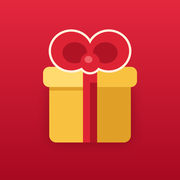
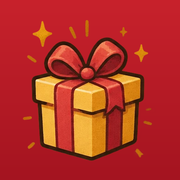
Habillage visuel personnalisé : icônes, illustrations, texture, guirlande et icône d'app (v0.06)
Assets générés par ChatGPT, découpés et convertis en WebP (≈ 290 Ko au total).

Claude-Session: https://claude.ai/code/session_01Qu7CnsYnytHFLLPUxnLugH

diff --git a/app.js b/app.js
@@ -8,7 +8,9 @@ const euro = (n) => (n == null ? '' : Number(n).toLocaleString('fr-FR', { style:
 const date = (d) => new Date(d).toLocaleDateString('fr-FR', { day: 'numeric', month: 'short', hour: '2-digit', minute: '2-digit' });
 const hue = (s) => [...s].reduce((h, c) => (h * 31 + c.charCodeAt(0)) % 360, 7);
 const appUrl = location.origin + location.pathname;
-const VERSION = 'v0.05';
+const VERSION = 'v0.06';
+const ico = (name) => `<img class="ico" src="assets/i-${name}.webp" alt="">`;
+const empty = (img, text) => `<div class="empty"><img src="assets/empty-${img}.webp" alt="">${text}</div>`;
 let D; // toutes les données visibles
 let filter = localStorage.getItem('giftmas-filter') || '';
 
@@ -24,11 +26,11 @@ async function start() {
   history.replaceState(null, '', location.pathname + location.hash);
   $('#app').innerHTML = `
     <header class="top">
-      <a href="#/" class="brand">🎁 Giftmas <small class="version">${VERSION}</small></a>
+      <a href="#/" class="brand"><img src="assets/hero-gift.webp" alt="">Giftmas <small class="version">${VERSION}</small></a>
       <nav>
-        <a href="#/journal" aria-label="Journal des cadeaux">📜</a>
-        <a href="#/notifs" aria-label="Notifications">🔔<b class="badge" hidden></b></a>
-        <a href="#/familles" aria-label="Familles et réglages">👪</a>
+        <a href="#/journal" aria-label="Journal des cadeaux">${ico('journal')}</a>
+        <a href="#/notifs" aria-label="Notifications">${ico('bell')}<b class="badge" hidden></b></a>
+        <a href="#/familles" aria-label="Familles et réglages">${ico('family')}</a>
       </nav>
     </header>
     ${DEMO ? '<p class="demo">Mode démo : données locales à ce navigateur</p>' : ''}
@@ -50,7 +52,7 @@ async function refresh() {
 function login(code = '', create = false) {
   $('#app').innerHTML = `
     <main class="login">
-      <div class="logo" aria-hidden="true">🎁</div>
+      <img class="logo" src="assets/hero-gift.webp" alt="">
       <h1>Giftmas <small class="version">${VERSION}</small></h1>
       <p>Les listes de cadeaux de la famille</p>
       <form id="login">
@@ -98,7 +100,7 @@ const inFilter = (profileId) => !filter || D.links.some((l) => l.profile_id === 
 const avatar = (p) => p.photo
   ? `<img class="avatar" src="${esc(p.photo)}" alt="">`
   : `<span class="avatar" style="--c:hsl(${hue(p.name)} 60% 50%)" aria-hidden="true">${esc(p.name.slice(0, 1).toUpperCase())}</span>`;
-const thumb = (g) => (g.image ? `<img src="${esc(g.image)}" alt="" loading="lazy">` : '<span class="ph" aria-hidden="true">🎁</span>');
+const thumb = (g) => (g.image ? `<img src="${esc(g.image)}" alt="" loading="lazy">` : '<img src="assets/gift-placeholder.webp" alt="">');
 
 const chips = () => D.families.length < 2 ? '' : `<div class="chips" role="group" aria-label="Filtrer par famille">
   ${[{ id: '', name: 'Tout le monde' }, ...D.families].map((f) =>
@@ -112,7 +114,7 @@ function home() {
     return `<a class="person" href="#/p/${p.id}">${avatar(p)}<b>${esc(p.name)}</b><small>${info}</small></a>`;
   });
   return `${chips()}<section class="people">${people.join('')}
-    <button type="button" class="person add" data-act="new-profile"><span class="avatar" aria-hidden="true">＋</span><b>Ajouter</b><small>une personne</small></button>
+    <button type="button" class="person add" data-act="new-profile"><span class="avatar" aria-hidden="true">${ico('plus')}</span><b>Ajouter</b><small>une personne</small></button>
   </section>`;
 }
 
@@ -131,16 +133,16 @@ function person(id) {
         ${mine ? '' : `<label class="check"><input type="checkbox" data-reserve="${g.id}" ${r ? 'checked' : ''} ${r && !byMe ? 'disabled' : ''}
           aria-label="${r ? `Réservé par ${esc(r.reserved_by)}` : `Je réserve ${esc(g.name)}`}"></label>`}</div>
       ${r ? `<span class="by">✓ ${byMe ? 'Moi' : esc(r.reserved_by)}</span>` : ''}
-      ${same(g.added_by, D.pseudo) || manage ? `<button type="button" class="del" data-act="del-gift" data-id="${g.id}" aria-label="Supprimer ${esc(g.name)}">×</button>` : ''}
+      ${same(g.added_by, D.pseudo) || manage ? `<button type="button" class="del" data-act="del-gift" data-id="${g.id}" aria-label="Supprimer ${esc(g.name)}">${ico('close')}</button>` : ''}
     </article>`;
   });
   return `<div class="phead">
-      <a class="icon-btn" href="#/" aria-label="Retour">‹</a>${avatar(p)}
+      <a class="icon-btn" href="#/" aria-label="Retour">${ico('back')}</a>${avatar(p)}
       <h1>${esc(p.name)}${mine ? '<small>Ta liste · les réservations te sont cachées 🤫</small>' : ''}</h1>
-      <button type="button" class="icon-btn add" data-act="new-gift" data-id="${p.id}" aria-label="Ajouter un cadeau">＋</button>
-      <button type="button" class="icon-btn" data-act="profile-menu" data-id="${p.id}" aria-label="Options du profil">⋯</button>
+      <button type="button" class="icon-btn" data-act="new-gift" data-id="${p.id}" aria-label="Ajouter un cadeau">${ico('plus')}</button>
+      <button type="button" class="icon-btn" data-act="profile-menu" data-id="${p.id}" aria-label="Options du profil">${ico('more')}</button>
     </div>
-    ${tiles.length ? `<section class="gifts">${tiles.join('')}</section>` : '<p class="empty">Aucune idée pour l’instant.<br>Ajoute le premier cadeau !</p>'}`;
+    ${tiles.length ? `<section class="gifts">${tiles.join('')}</section>` : empty('gifts', 'Aucune idée pour l’instant.<br>Ajoute le premier cadeau avec le ＋ !')}`;
 }
 
 function journal() {
@@ -152,26 +154,26 @@ function journal() {
     ${rows.length ? `<ul class="list">${rows.map(({ r, g, p }) => `<li>${thumb(g)}<div>
       <b>${esc(r.reserved_by)}</b> a réservé <b>${esc(g.name)}</b> pour <a href="#/p/${p.id}">${esc(p.name)}</a>
       <small>${date(r.created_at)}${g.price != null ? ` · ${euro(g.price)}` : ''}</small></div></li>`).join('')}</ul>`
-      : '<p class="empty">Rien de réservé pour l’instant.</p>'}`;
+      : empty('journal', 'Rien de réservé pour l’instant.')}`;
 }
 
 function notifs() {
   const standalone = matchMedia('(display-mode: standalone)').matches || navigator.standalone;
   const push = 'PushManager' in window && VAPID_PUBLIC_KEY && !DEMO
-    ? '<button type="button" class="btn green" data-act="enable-push">🔔 Recevoir les notifications sur cet appareil</button>'
+    ? `<button type="button" class="btn green" data-act="enable-push">${ico('bell')} Recevoir les notifications sur cet appareil</button>`
     : /iPhone|iPad/.test(navigator.userAgent) && !standalone
       ? '<p class="card">Pour recevoir les notifications sur iPhone : bouton Partager ⎋ puis « Sur l’écran d’accueil », et ouvre Giftmas depuis l’icône.</p>'
       : '';
   return `<h1 class="title">Notifications</h1>${push}
-    ${D.notifications.length ? `<ul class="list">${D.notifications.map((n) => `<li class="${n.read ? '' : 'unread'}"><span class="ph" aria-hidden="true">🎁</span>
+    ${D.notifications.length ? `<ul class="list">${D.notifications.map((n) => `<li class="${n.read ? '' : 'unread'}"><img src="assets/i-bell.webp" alt="">
       <div>${esc(n.body)}<small>${date(n.created_at)}</small></div></li>`).join('')}</ul>`
-      : '<p class="empty">Tu seras prévenu ici quand quelqu’un réserve un cadeau sur un profil que tu as créé.</p>'}`;
+      : empty('notifs', 'Tu seras prévenu ici quand quelqu’un réserve un cadeau sur un profil que tu as créé.')}`;
 }
 
 function families() {
   return `<h1 class="title">Familles</h1>
     ${D.families.map((f) => `<div class="card fam"><div><b>${esc(f.name)}</b><small>Code : <span class="code">${esc(f.code)}</span></small></div>
-      <button type="button" class="btn small" data-act="invite" data-id="${f.id}">Inviter</button></div>`).join('')}
+      <button type="button" class="btn small" data-act="invite" data-id="${f.id}">${ico('invite')} Inviter</button></div>`).join('')}
     <form class="card stack" data-form="join"><label>Rejoindre une autre famille<input name="code" required maxlength="6" autocapitalize="characters" autocomplete="off" placeholder="Code"></label><button class="btn">Rejoindre</button></form>
     <form class="card stack" data-form="create"><label>Créer une nouvelle famille<input name="name" required maxlength="60" placeholder="Famille Martin"></label><button class="btn ghost">Créer</button></form>
     <p class="card">Connecté en tant que <b>${esc(D.pseudo)}</b>. <button type="button" class="link" data-act="logout">Se déconnecter</button></p>`;
@@ -219,7 +221,7 @@ function imagePicker(form, name) {
   return (src) => { link.value = src; set(src); };
 }
 const imageField = (name, label) => `<div class="img-pick"><img alt="" hidden>
-  <label class="btn ghost small">📷 ${label}<input type="file" name="${name}-file" accept="image/*" hidden></label></div>
+  <label class="btn ghost small">${ico('camera')} ${label}<input type="file" name="${name}-file" accept="image/*" hidden></label></div>
   <input name="${name}-url" inputmode="url" autocomplete="off" aria-label="Adresse web de l’image" placeholder="ou colle l’adresse d’une image (https://…)">
   <input type="hidden" name="${name}">`;
 
@@ -289,7 +291,7 @@ function profileMenu(id) {
   const others = D.families.filter((f) => !D.links.some((l) => l.profile_id === id && l.family_id === f.id));
   sheet(`<h2>${esc(p.name)}</h2>
     ${others.map((f) => `<button type="button" class="btn ghost" data-act="add-to-family" data-id="${id}" data-fid="${f.id}">Ajouter aussi à ${esc(f.name)}</button>`).join('')}
-    <button type="button" class="btn ghost" data-act="share-list" data-id="${id}">Partager cette liste</button>
+    <button type="button" class="btn ghost" data-act="share-list" data-id="${id}">${ico('share')} Partager cette liste</button>
     ${same(p.created_by, D.pseudo) ? `<button type="button" class="btn danger" data-act="del-profile" data-id="${id}">Supprimer ce profil</button>` : ''}
     <button class="btn ghost" value="cancel">Fermer</button>`, () => {});
 }

diff --git a/style.css b/style.css
@@ -2,16 +2,19 @@
   --bg: #fbf5ec; --card: #fff; --ink: #2a1f1a; --muted: #7b6d63; --line: #eadfce;
   --accent: #c8102e; --green: #1d7a55; --gold: #e8b12f;
   --shadow: 0 2px 10px rgb(80 40 20 / .08);
+  --pattern: url(assets/pattern-light.webp); --veil: rgb(251 245 236 / .8);
   color-scheme: light dark;
 }
 @media (prefers-color-scheme: dark) {
   :root { --bg: #121419; --card: #1e222b; --ink: #f3ede4; --muted: #a59b90; --line: #2f3542;
-    --accent: #e0283f; --green: #2fae78; --gold: #f2c14e; --shadow: none; }
+    --accent: #e0283f; --green: #2fae78; --gold: #f2c14e; --shadow: none;
+    --pattern: url(assets/pattern-dark.webp); --veil: rgb(18 20 25 / .82); }
 }
 * { box-sizing: border-box; margin: 0; }
 body {
   font: 16px/1.35 system-ui, -apple-system, sans-serif; color: var(--ink); min-height: 100dvh;
-  background: var(--bg) radial-gradient(circle at 1px 1px, rgb(200 16 46 / .07) 1.2px, transparent 0) 0 0 / 22px 22px;
+  background: linear-gradient(var(--veil), var(--veil)), var(--pattern) 0 0 / 300px;
+  background-color: var(--bg);
   -webkit-tap-highlight-color: transparent;
 }
 h1, h2, .brand, .btn { font-family: Fredoka, system-ui, sans-serif; font-weight: 600; }
@@ -25,17 +28,24 @@ a { color: inherit; }
   padding: calc(env(safe-area-inset-top) + 4px) 10px 4px 14px; background: var(--accent); color: #fff;
   box-shadow: 0 2px 12px rgb(0 0 0 / .15);
 }
-.brand { color: #fff; text-decoration: none; font-size: 22px; }
+.brand { display: flex; align-items: center; gap: 6px; color: #fff; text-decoration: none; font-size: 22px; }
+.brand img { width: 34px; height: 34px; object-fit: contain; }
+/* guirlande sous la barre rouge (décor, ne capte pas les touchers) */
+.top::after { content: ""; position: absolute; left: 0; right: 0; top: 100%; height: 26px; background: url(assets/garland.webp) 0 0 / auto 26px repeat-x; pointer-events: none; }
+.ico { width: 30px; height: 30px; object-fit: contain; flex: none; }
 .version { font: 500 12px system-ui, sans-serif; opacity: .75; }
 .top nav { display: flex; gap: 2px; }
-.top nav a { position: relative; display: grid; place-items: center; width: 44px; height: 44px; font-size: 21px; text-decoration: none; border-radius: 12px; }
+.top nav a { position: relative; display: grid; place-items: center; width: 44px; height: 44px; text-decoration: none; border-radius: 12px; }
+.top nav .ico { width: 32px; height: 32px; }
 .top nav a[aria-current] { background: rgb(255 255 255 / .22); }
 .badge {
   position: absolute; top: 3px; right: 1px; min-width: 18px; height: 18px; padding: 0 4px; border-radius: 9px;
   background: var(--gold); color: #2a1f1a; font: 700 11px/18px system-ui; text-align: center;
 }
+.top + .demo { margin-top: 26px; }
+.top + .demo + main { padding-top: 12px; }
 .demo { background: var(--gold); color: #2a1f1a; font-size: 13px; text-align: center; padding: 4px; }
-main { padding: 12px 12px calc(24px + env(safe-area-inset-bottom)); max-width: 900px; margin: auto; }
+main { padding: 30px 12px calc(24px + env(safe-area-inset-bottom)); max-width: 900px; margin: auto; }
 .title { font-size: 24px; margin: 4px 0 12px; }
 
 /* Filtre familles */
@@ -57,7 +67,8 @@ main { padding: 12px 12px calc(24px + env(safe-area-inset-bottom)); max-width: 9
   width: 68px; height: 68px; border-radius: 50%; display: grid; place-items: center; flex: none; object-fit: cover;
   background: var(--c, var(--accent)); color: #fff; font: 600 28px Fredoka, system-ui; box-shadow: 0 0 0 3px var(--card), 0 0 0 5px var(--gold);
 }
-.person.add .avatar { background: none; color: var(--muted); box-shadow: none; border: 2px dashed var(--muted); }
+.person.add .avatar { background: none; box-shadow: none; border: 2px dashed var(--muted); }
+.person.add .ico { width: 44px; height: 44px; }
 
 /* Page personne */
 .phead { display: flex; align-items: center; gap: 10px; margin-bottom: 12px; }
@@ -66,38 +77,39 @@ main { padding: 12px 12px calc(24px + env(safe-area-inset-bottom)); max-width: 9
 .phead small { display: block; font: 12px system-ui; color: var(--muted); }
 .icon-btn {
   flex: none; display: grid; place-items: center; width: 44px; height: 44px; border: 0; border-radius: 12px;
-  background: var(--card); color: var(--ink); font-size: 22px; text-decoration: none; box-shadow: var(--shadow);
+  background: none; color: var(--ink); text-decoration: none;
 }
 
 /* Grille de cadeaux : 3 colonnes sur iPhone, 9 visibles sans défiler */
 .gifts { display: grid; grid-template-columns: repeat(auto-fill, minmax(104px, 1fr)); gap: 8px; }
 .gift { position: relative; display: flex; flex-direction: column; background: var(--card); border-radius: 14px; overflow: hidden; box-shadow: var(--shadow); transition: transform .15s; }
 .gift-link { flex: 1; display: flex; flex-direction: column; text-decoration: none; }
-.gift img, .gift .ph { width: 100%; aspect-ratio: 4 / 3; object-fit: cover; display: grid; place-items: center; background: var(--line); font-size: 30px; }
+.gift-link img { width: 100%; aspect-ratio: 3 / 2; object-fit: cover; display: grid; place-items: center; background: var(--line); font-size: 30px; }
 .gift-name { padding: 5px 7px 0; font-size: 12.5px; line-height: 1.25; font-weight: 600; min-height: calc(2.5em + 5px);
   display: -webkit-box; -webkit-line-clamp: 2; -webkit-box-orient: vertical; overflow: hidden; }
 .gift-foot { display: flex; align-items: center; justify-content: space-between; min-height: 40px; padding-left: 7px; }
 .price { font-weight: 700; font-size: 13px; color: var(--green); }
 .check { display: grid; place-items: center; width: 44px; height: 40px; cursor: pointer; }
 .check input { appearance: none; display: grid; place-items: center; width: 26px; height: 26px; margin: 0; border: 2px solid var(--muted); border-radius: 8px; background: var(--card); }
-.check input:checked { background: var(--green); border-color: var(--green); }
-.check input:checked::after { content: "✓"; color: #fff; font-weight: 800; font-size: 17px; }
-.check input:checked:disabled { background: var(--gold); border-color: var(--gold); }
+.check input:checked { border: 0; background: url(assets/i-check.webp) center / 30px no-repeat; }
+.check input:checked:disabled { filter: saturate(.35); }
 .gift.taken img, .gift.taken .ph { filter: grayscale(.7) opacity(.5); }
 .by {
   position: absolute; top: 6px; left: 6px; max-width: calc(100% - 40px); padding: 3px 7px; border-radius: 8px;
   background: var(--green); color: #fff; font-size: 11px; font-weight: 700; white-space: nowrap; overflow: hidden; text-overflow: ellipsis;
 }
-.del { position: absolute; top: 4px; right: 4px; width: 26px; height: 26px; border: 0; border-radius: 50%; background: rgb(0 0 0 / .3); color: #fff; font-size: 15px; line-height: 1; }
-.icon-btn.add { background: var(--accent); color: #fff; font-weight: 700; }
+.del { position: absolute; top: 3px; right: 3px; display: grid; place-items: center; width: 32px; height: 32px; padding: 0; border: 0; background: none; }
+.del .ico { width: 22px; height: 22px; opacity: .85; }
+.icon-btn .ico { width: 40px; height: 40px; }
 
 /* Listes : journal, notifications */
 .list { list-style: none; padding: 0; display: grid; gap: 8px; }
 .list li { display: flex; gap: 10px; align-items: center; padding: 10px; background: var(--card); border-radius: 14px; box-shadow: var(--shadow); font-size: 15px; }
 .list li.unread { box-shadow: inset 4px 0 var(--accent), var(--shadow); }
-.list img, .list .ph { flex: none; width: 48px; height: 48px; border-radius: 10px; object-fit: cover; display: grid; place-items: center; background: var(--line); font-size: 22px; }
+.list li > img { flex: none; width: 48px; height: 48px; border-radius: 10px; object-fit: cover; display: grid; place-items: center; background: var(--line); font-size: 22px; }
 .list small { display: block; color: var(--muted); font-size: 13px; }
-.empty { text-align: center; color: var(--muted); padding: 48px 12px; }
+.empty { text-align: center; color: var(--muted); padding: 24px 12px; }
+.empty img { display: block; width: 180px; max-width: 60%; margin: 0 auto 12px; }
 .card { background: var(--card); border-radius: 16px; padding: 14px; box-shadow: var(--shadow); margin-bottom: 12px; }
 .fam { display: flex; align-items: center; justify-content: space-between; gap: 12px; }
 .fam small { display: block; color: var(--muted); }
@@ -113,7 +125,9 @@ legend { font-size: 14px; font-weight: 600; margin-bottom: 6px; }
 .tick input { width: 22px; height: 22px; accent-color: var(--green); }
 .btn { display: block; width: 100%; padding: 14px; border: 0; border-radius: 14px; background: var(--accent); color: #fff; font-size: 17px; text-align: center; cursor: pointer; }
 .btn:disabled { opacity: .6; }
-.btn.small { width: auto; padding: 10px 16px; font-size: 15px; }
+.btn.small { width: auto; padding: 8px 14px; font-size: 15px; }
+.btn { display: flex; align-items: center; justify-content: center; gap: 8px; }
+.btn .ico { width: 26px; height: 26px; }
 .btn.ghost { background: transparent; color: var(--ink); border: 1px solid var(--line); }
 .btn.danger { background: transparent; color: var(--accent); border: 1px solid var(--accent); }
 .btn.green { background: var(--green); margin-bottom: 12px; }
@@ -141,6 +155,6 @@ dialog::backdrop { background: rgb(0 0 0 / .45); }
 .login h1 { font-size: 44px; color: var(--accent); }
 .login p { color: var(--muted); }
 .login .demo { border-radius: 10px; }
-.logo { font-size: 76px; animation: wiggle 2.5s ease-in-out infinite; }
+.logo { width: 150px; margin: auto; animation: wiggle 2.5s ease-in-out infinite; }
 @keyframes wiggle { 0%, 80%, 100% { transform: rotate(0); } 85% { transform: rotate(-12deg); } 90% { transform: rotate(10deg); } 95% { transform: rotate(-6deg); } }
 @media (prefers-reduced-motion: reduce) { * { animation: none !important; transition: none !important; } }

diff --git a/index.html b/index.html
@@ -8,8 +8,8 @@
   <meta name="apple-mobile-web-app-status-bar-style" content="black-translucent">
   <meta name="apple-mobile-web-app-title" content="Giftmas">
   <link rel="manifest" href="manifest.webmanifest">
-  <link rel="icon" href="icons/icon-192.png?v=2">
-  <link rel="apple-touch-icon" href="icons/apple-touch-icon.png?v=2">
+  <link rel="icon" href="icons/icon-192.png?v=3">
+  <link rel="apple-touch-icon" href="icons/apple-touch-icon.png?v=3">
   <link rel="preconnect" href="https://fonts.gstatic.com" crossorigin>
   <link rel="stylesheet" href="https://fonts.googleapis.com/css2?family=Fredoka:wght@500;600&display=swap">
   <link rel="stylesheet" href="style.css">
